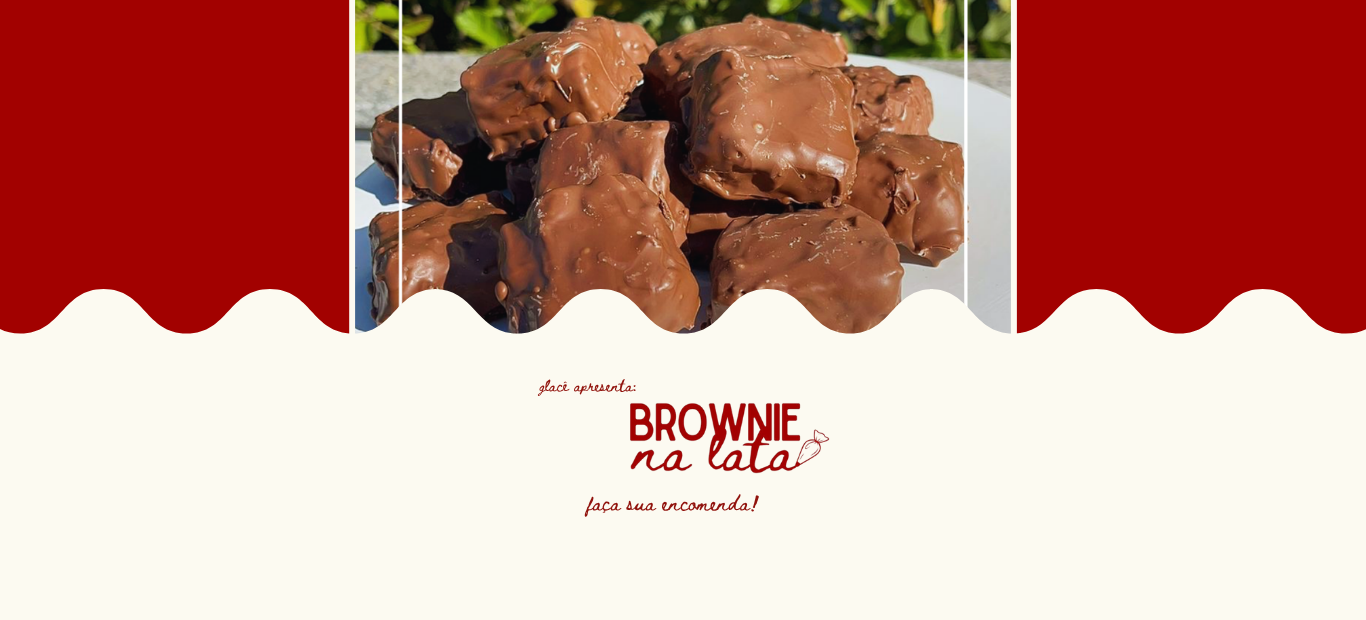
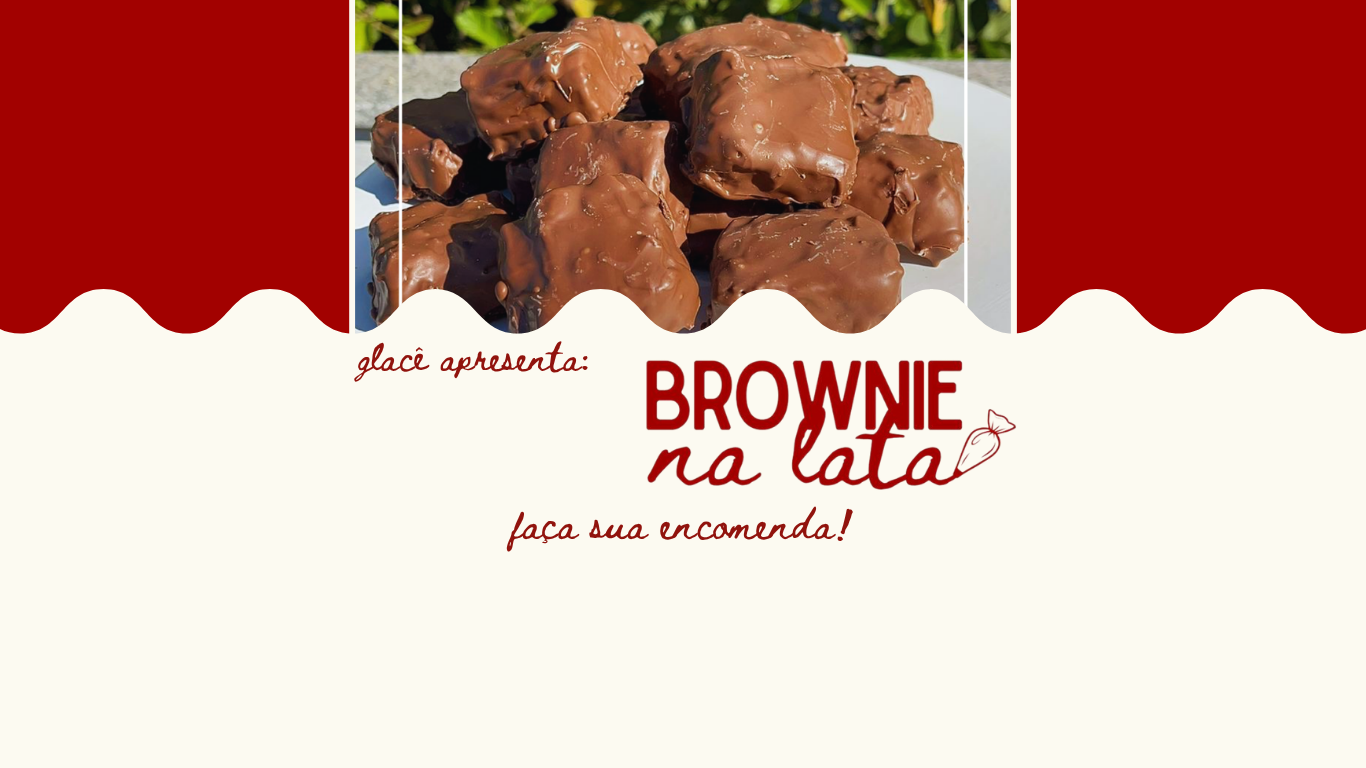
alterando imagens home para melhorar a proporção

Changed region(s): [[0.0, 0.0, 1.0, 0.7661], [0.4305, 0.7968, 0.5534, 0.8274]]

diff --git a/src/components/Carrinho.js b/src/components/Carrinho.js
@@ -52,7 +52,7 @@ function Carrinho() {
   // 5. Se o carrinho tiver itens
   return (
     <div className="container mt-5 pt-5">
-      <h1 className="mb-4">Meu Carrinho</h1>
+      <h1 className="mb-4 mt-4">Meu Carrinho</h1>
       
       <ul className="list-group mb-4">
         {cartItems.map(item => (
